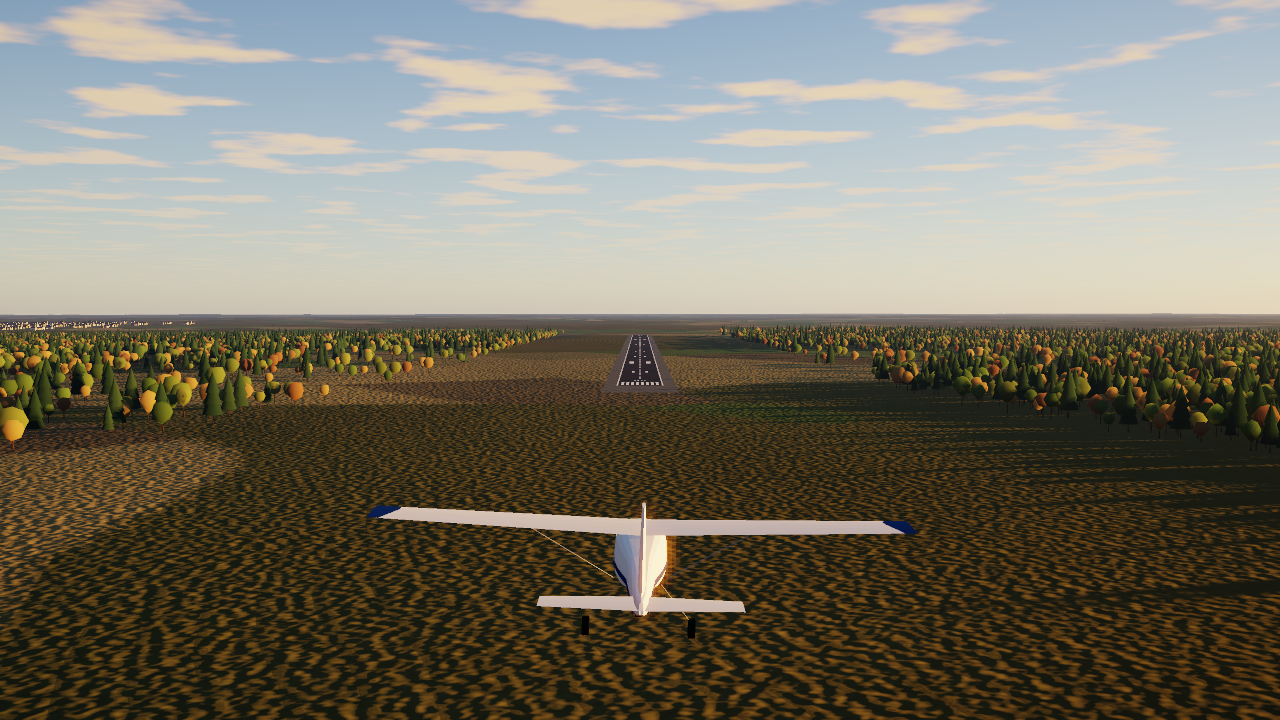
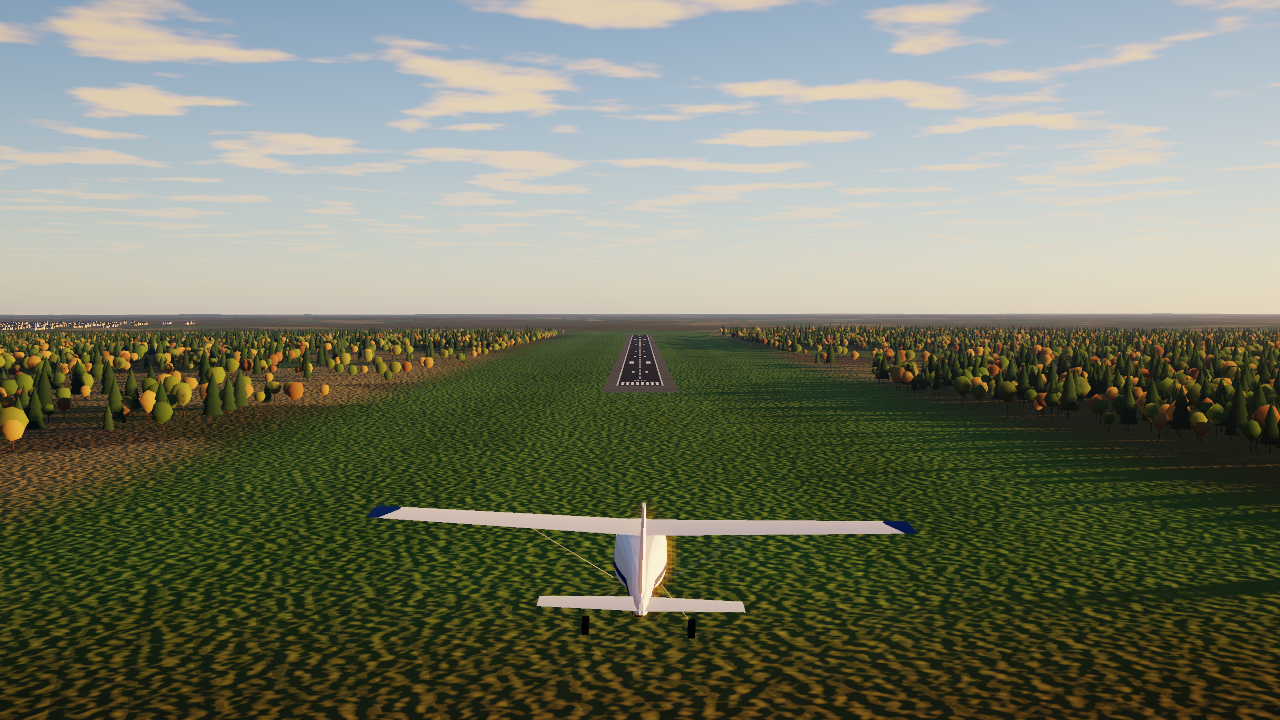
[P1.3] Mown airfield grass around the runway (Quick Flight and preview j)
Claude-Session: https://claude.ai/code/session_01LuDJ4arcj2AiLQbMi9mk9u

Changed region(s): [[0.0, 0.4889, 1.0, 0.8556]]

diff --git a/Packages/SkyforgeKit/Sources/SFPreview/SceneBuilder.swift b/Packages/SkyforgeKit/Sources/SFPreview/SceneBuilder.swift
@@ -11,6 +11,8 @@ public struct SceneBuilder {
     let macroNoise: GradientNoise2D
     let moistureNoise: GradientNoise2D
     public private(set) var stats: [String: Int] = [:]
+    /// Runway whose surroundings are mown airfield grass (set before `addTerrain`).
+    public var airfield: RunwaySpec?
 
     public init(generator: WorldGenerator, origin: SIMD3<Double>) {
         self.generator = generator
@@ -68,9 +70,24 @@ public struct SceneBuilder {
             let bank = Float(1 - smoothstep(r.width / 2, r.width / 2 + 14, rd))
             c = c + (srgb(112, 100, 78) - c) * bank
         }
+        if let a = airfield, slope < 0.2 { c = airfieldGrass(x, y, a, current: c) }
         // Macro variation breaks up uniformity (no visible tiling).
         let v = Float(1 + macroNoise.fbm(x / 260, y / 260, octaves: 3) * 0.16)
         return c * v
+    }
+
+    /// Mown grass inside the runway strip (±150 m) and its 500 m extensions, with broad mowing
+    /// stripes along the runway (40 m: wider than any terrain vertex step, so they never alias).
+    func airfieldGrass(_ x: Double, _ y: Double, _ a: RunwaySpec, current c: SIMD3<Float>) -> SIMD3<Float> {
+        let dir = SIMD2(sin(a.heading), cos(a.heading)), side = SIMD2(dir.y, -dir.x)
+        let d = SIMD2(x, y) - a.threshold
+        let along = (d * dir).sum(), across = abs((d * side).sum())
+        let outside = max(0, -along - 500, along - a.length - 500)
+        let w = Float((1 - smoothstep(120, 170, across)) * (1 - smoothstep(0, 120, outside)))
+        if w <= 0 { return c }
+        let stripe = Int((across / 40).rounded(.down)) % 2 == 0 ? Float(1.0) : 0.9
+        let grass = srgb(88, 116, 60) * stripe * Float(0.95 + 0.08 * macroNoise.fbm(x / 60, y / 60, octaves: 2))
+        return c + (grass - c) * w
     }
 
     func fieldColour(_ x: Double, _ y: Double, base: SIMD3<Float>) -> SIMD3<Float> {

diff --git a/Packages/SkyforgeKit/Sources/SFQuickFlight/QuickFlight.swift b/Packages/SkyforgeKit/Sources/SFQuickFlight/QuickFlight.swift
@@ -80,6 +80,7 @@ public struct QuickFlightWorld: FlightWorld {
     public func buildEnvironment(detail d: QuickFlightDetail, origin: SIMD3<Double>? = nil) -> TriangleSoup {
         let focus = runwayCentre
         var b = SceneBuilder(generator: generator, origin: origin ?? SIMD3(focus.x, focus.y, 0))
+        b.airfield = runway
         b.addTerrain(centre: focus, halfExtent: d.nearHalfExtent, step: d.nearStep)
         b.addTerrain(centre: focus, halfExtent: d.midHalfExtent, step: d.midStep, skipInside: d.nearHalfExtent - d.midStep, lower: 0.5, far: true)
         b.addTerrain(centre: focus, halfExtent: d.farHalfExtent, step: d.farStep, skipInside: d.midHalfExtent - d.farStep, lower: 1.5, far: true)

diff --git a/Packages/SkyforgeKit/Sources/SFPreview/Scenes.swift b/Packages/SkyforgeKit/Sources/SFPreview/Scenes.swift
@@ -107,6 +107,7 @@ public enum PreviewScenes {
         let focus = SIMD2(cam.position.x + fwd2.x * s.nearHalfExtent * 0.55, cam.position.y + fwd2.y * s.nearHalfExtent * 0.55)
         let origin = SIMD3(cam.position.x, cam.position.y, 0)
         var b = SceneBuilder(generator: s.generator, origin: origin)
+        b.airfield = s.runway
         b.addTerrain(centre: focus, halfExtent: s.nearHalfExtent, step: s.nearStep)
         // Mid ring (24 m) out to 8 km, then the far ring; each skips the area the finer ring covers.
         let midHalf = max(s.nearHalfExtent * 2.5, 8_000.0), midStep = 24.0

diff --git a/docs/VISUAL_LOG.md b/docs/VISUAL_LOG.md
@@ -101,3 +101,7 @@ Open defects (next passes): near-field ground is flat colour (needs detail textu
 - metal_cockpit (first try): panel, pillars and PFD correct, but the view was filled by the fuselage interior. Cause: aircraft normals pointed inward, so the back-face discard removed the outer skin. Fixed in caee43d with winding tests.
 - metal_cockpit (after caee43d): runway ahead through the windscreen, pillars, glare shield, panel and live PFD. Reads as a cockpit; pillars are heavy and the panel is flat-shaded. **6.5**.
 - Cloud shadows: the first CI frame showed no shadow because the test patch is under a clear gap (the CPU model agrees: 0 of 1,024 samples shaded). Over 20 km the model shades 15 % of the ground at coverage 0.42 and 61 % at 0.6. The shadow samples moved into the lower half of the slab and the test now looks at a patch the CPU model puts about one third in shadow.
+
+### 2026-11-08 Airfield grass (j and Quick Flight)
+- The Metal Quick Flight final and preview (j) showed the approach as brown autumn stubble. `SceneBuilder.airfield` now paints the runway strip (±150 m) and 500 m extensions as mown grass with 40 m mowing stripes (wider than any vertex step), blended out over 50 m.
+- j: approach reads as an airfield instead of a ploughed field. Score j 7.0 → **7.4**; average a 7.5, d 7.3, e 7.2, f 7.8, j 7.4 → **7.4**.

diff --git a/docs/VERIFICATION_LOG.md b/docs/VERIFICATION_LOG.md
@@ -70,3 +70,4 @@ Every gate run, CI run and manual verification. Newest at the bottom.
 - 2026-11-08T11:06:29Z gate fast on Linux x86_64: PASS (HEAD 9a01b94)
 - 2026-11-08T11:15:28Z gate fast on Linux x86_64: PASS (HEAD 5aee5ff)
 - 2026-11-08T11:17:14Z gate fast on Linux x86_64: PASS (HEAD 3ddd2f2)
+- 2026-11-08T11:30:39Z gate fast on Linux x86_64: PASS (HEAD 29a7c98)
